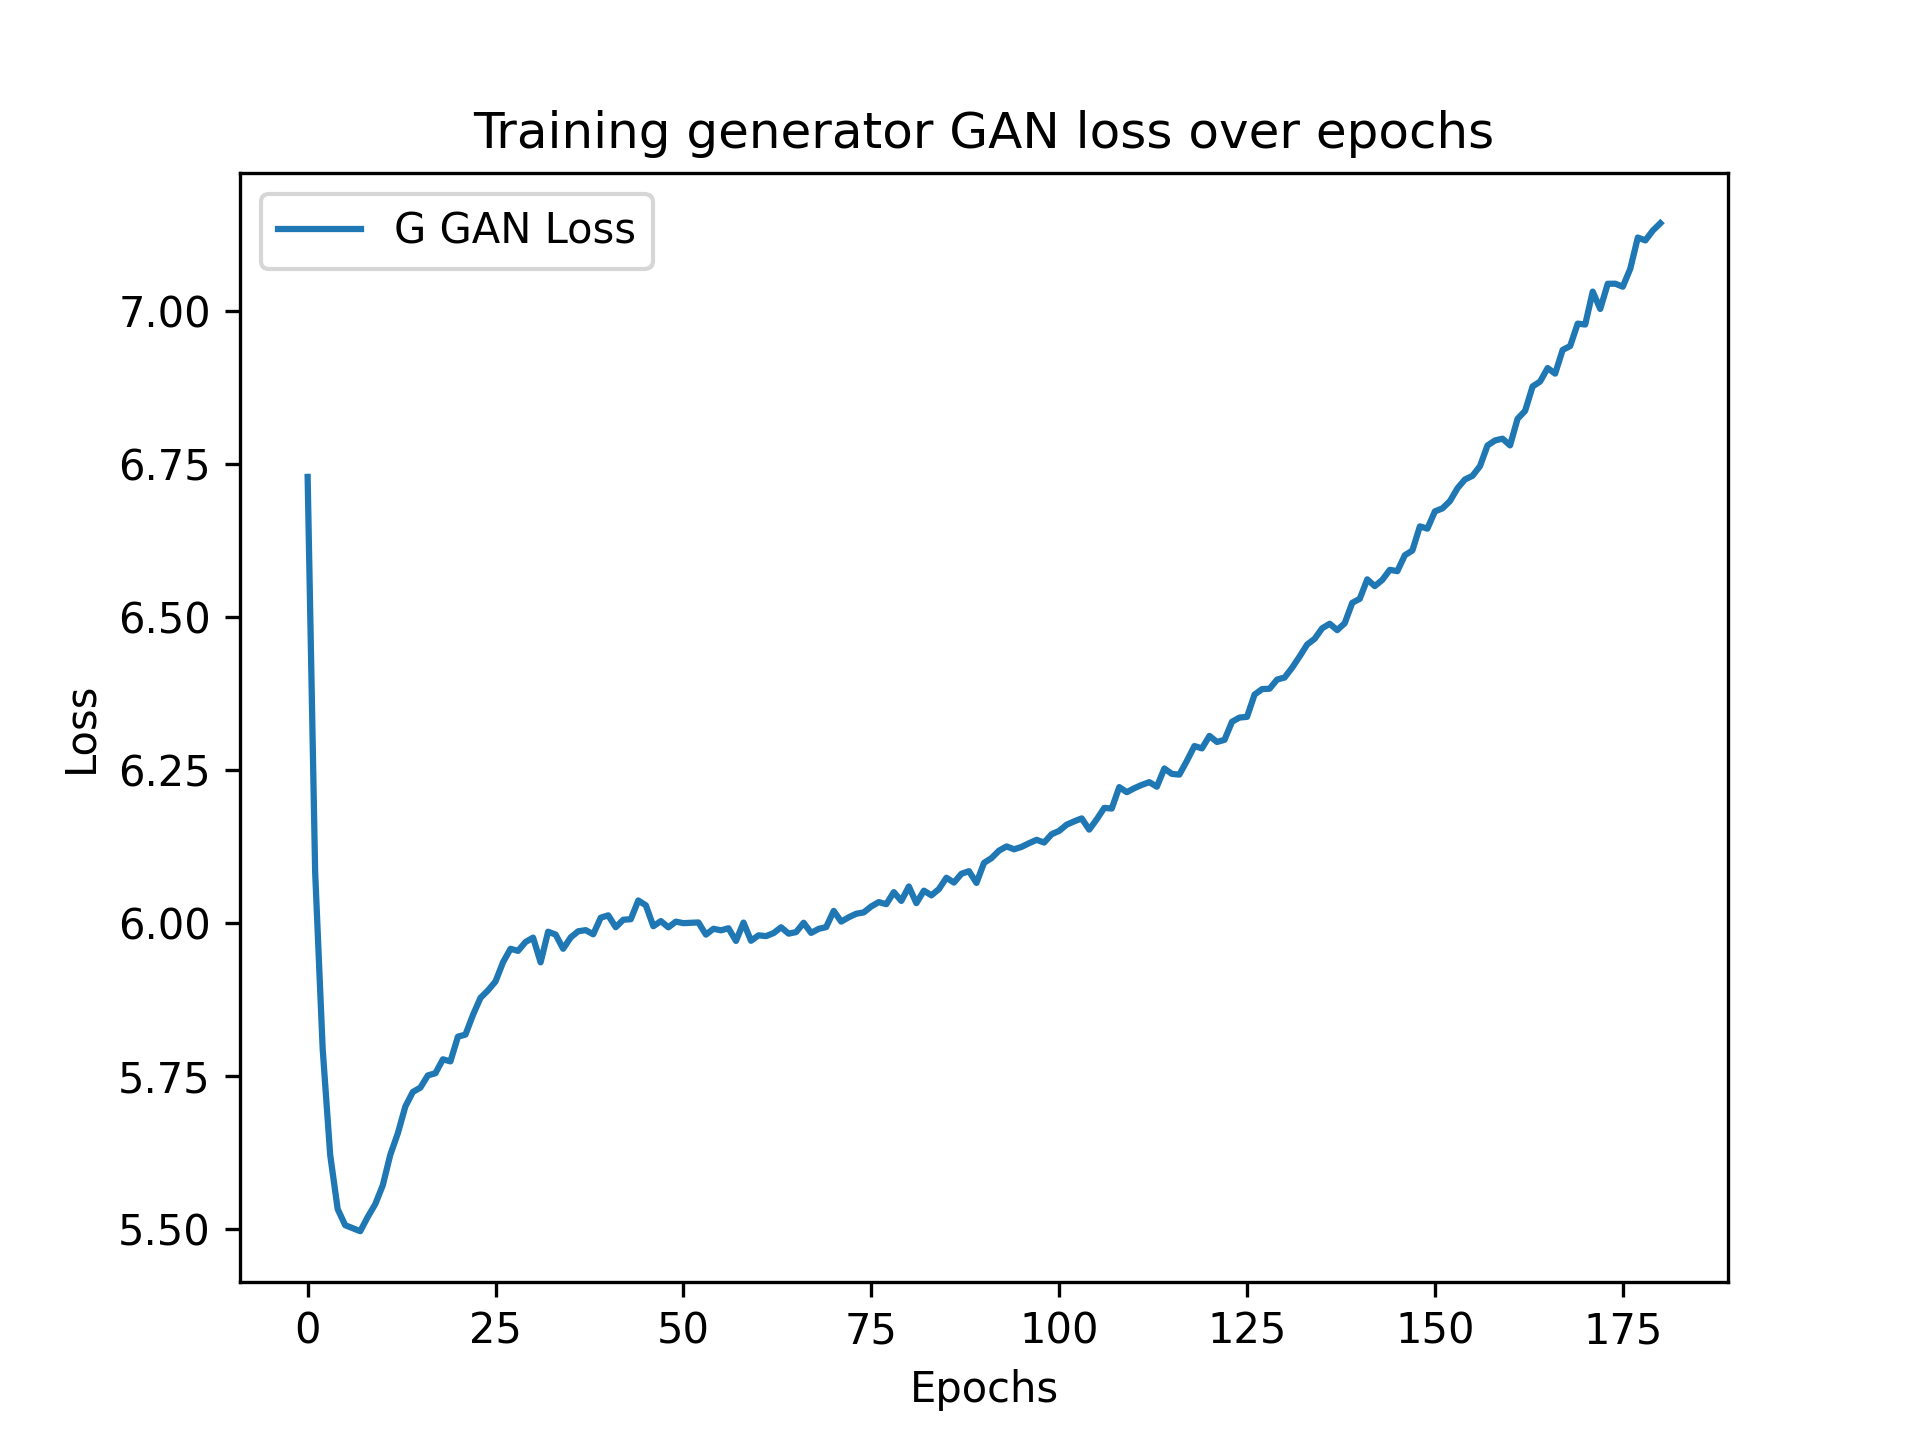
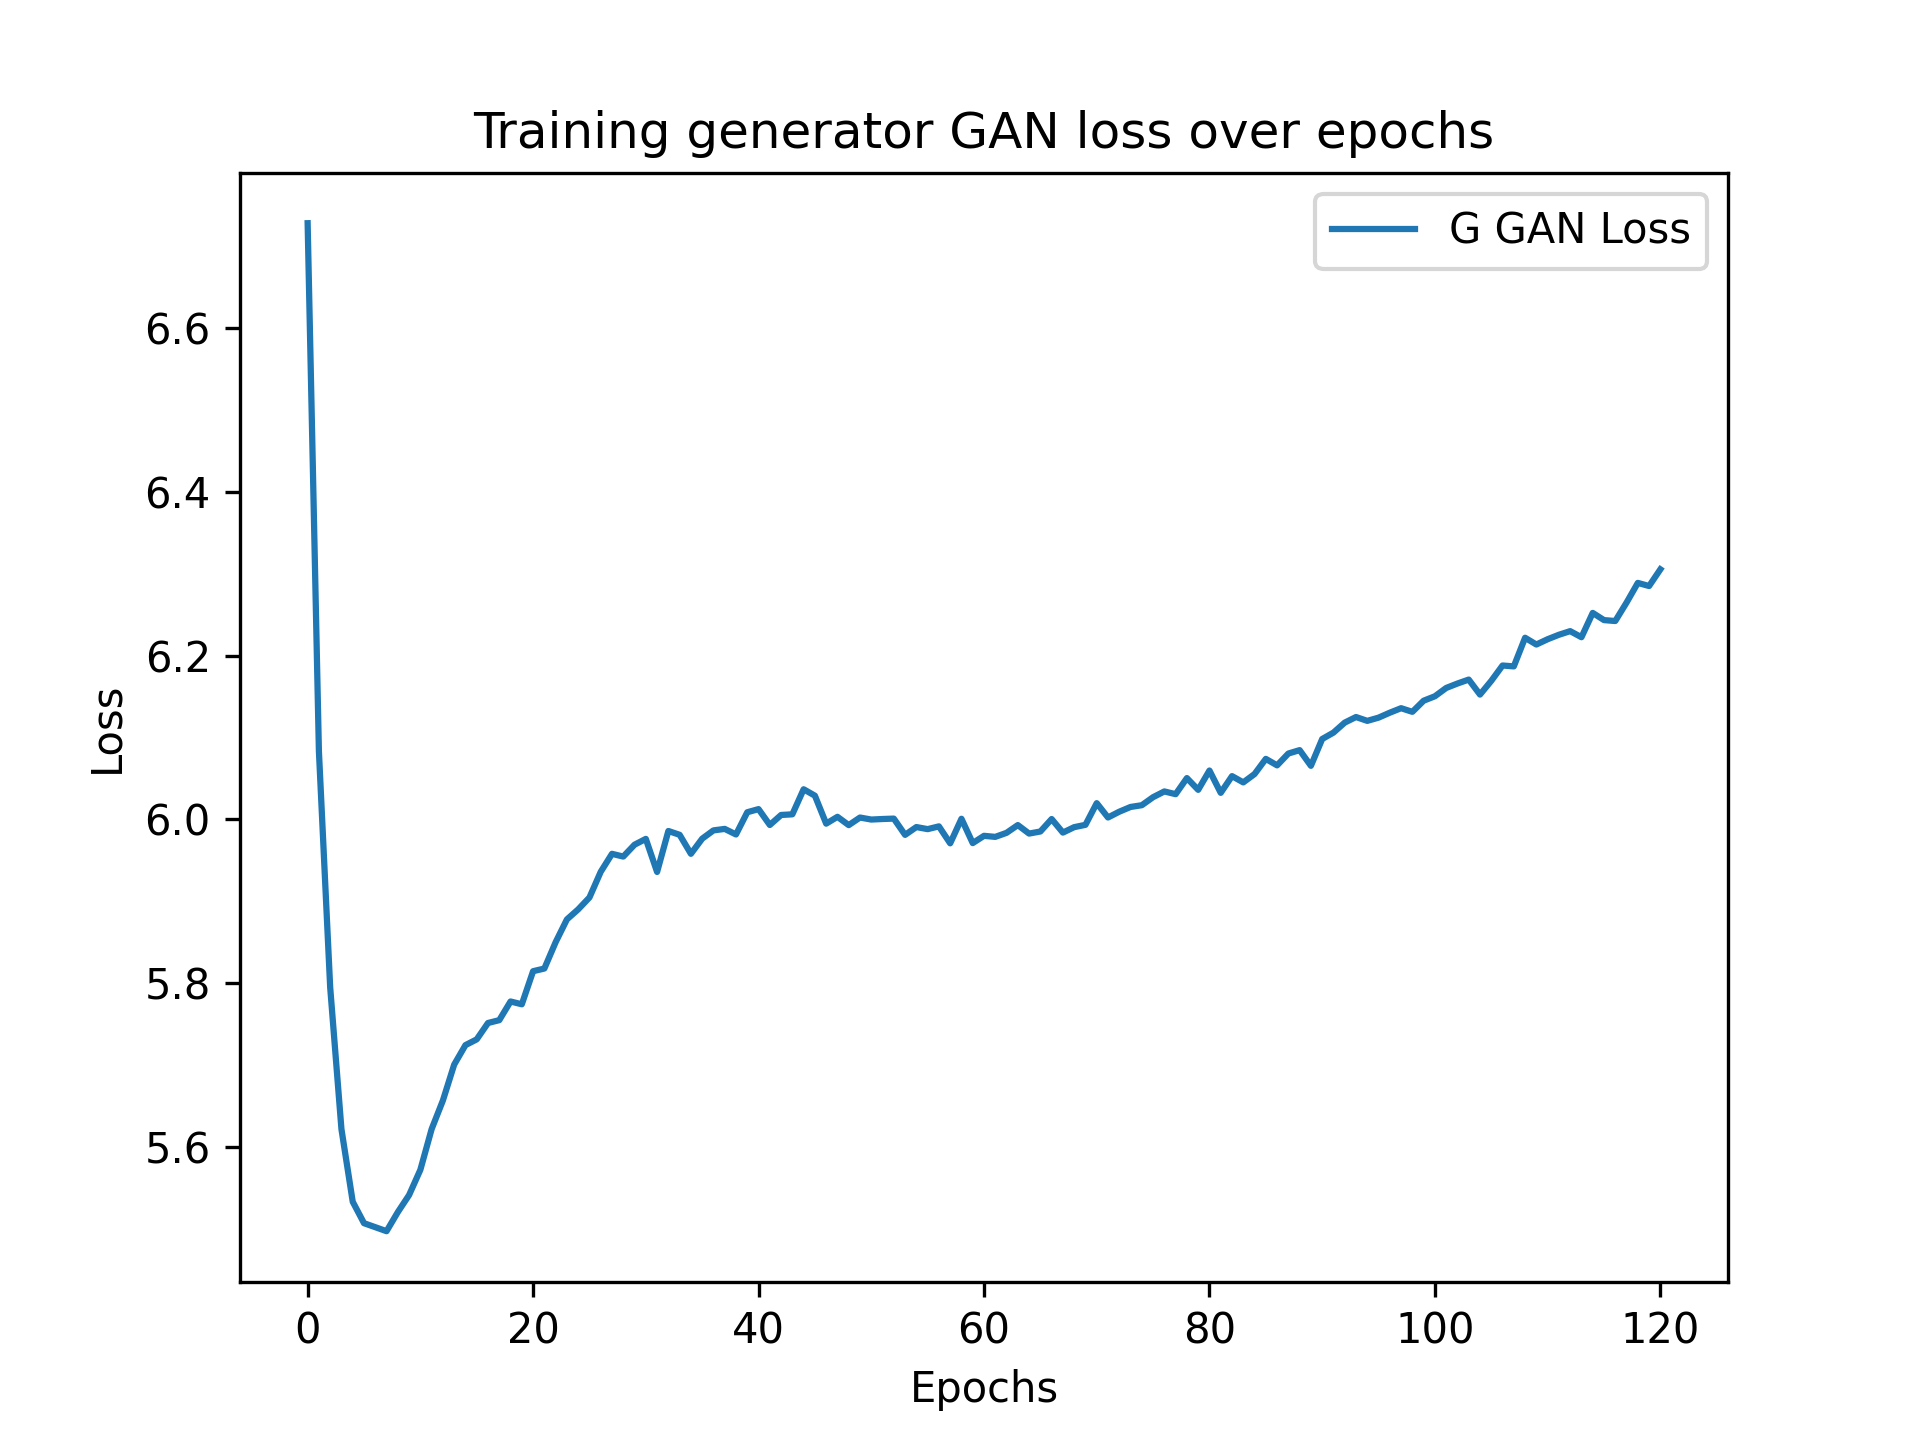
Updating code skeletons

diff --git a/train.py b/train.py
@@ -14,7 +14,7 @@ from model import *
 import pickle
 from skimage.metrics import structural_similarity as ssim
 
-size = 64
+size = 256
 mirflickr = Mirflickr()
 train_dataloader, eval_dataloader = mirflickr.build_dataset(size=size, batch_size=16)
 model = MainModel(size=size, pretrained=True)
@@ -53,7 +53,7 @@ def train(model, train_dataloader, num_epoch):
                    'ssim': [],        # SSIM evaluation metric
                    'psnr': []}        # PSNR evaluation metric
      
-    l1_regularization = 100.
+    l1_loss_penalty = 100.
     for epoch in range(num_epoch):
         total_d_fake_loss = 0.0
         total_d_real_loss = 0.0
@@ -114,7 +114,7 @@ def train(model, train_dataloader, num_epoch):
             g_gan_loss = model.DLoss(fake_preds, true_label) # Minimize this loss for better creation of realistic fake images
             total_g_gan_loss += float(g_gan_loss) * 100
             
-            g_l1_loss = model.GLoss(fake_outputs, ab) * l1_regularization # Multiplied by a L1 regularization term to balance the L1 loss and GAN loss. Prioritize the L1 loss over GAN loss.
+            g_l1_loss = model.GLoss(fake_outputs, ab) * l1_loss_penalty # Multiplied by a L1 regularization term to balance the L1 loss and GAN loss. Prioritize the L1 loss over GAN loss.
             total_g_l1_loss += float(g_l1_loss) 
             
             # Loss for fooling discriminator and loss for the differences between generated color and true color
@@ -135,18 +135,18 @@ def train(model, train_dataloader, num_epoch):
         performance['psnr'].append(average(psnr))
         
         # Perform L1 regularization decrease for G L1 loss
-        if epoch >= 80 and performance['g_gan_loss'][-1] > performance['g_gan_loss'][-2]:
+        if epoch >= 25 and performance['g_gan_loss'][-1] > performance['g_gan_loss'][-2]:
             GAN_loss_count += 1
             
-            if GAN_loss_count == 3:
-                l1_regularization -= 5.
-                if l1_regularization < 1.:
-                    l1_regularization = 1.
+            if GAN_loss_count == 5:
+                l1_loss_penalty -= 5.
+                if l1_loss_penalty < 1.:
+                    l1_loss_penalty = 1.
             
         else:
             GAN_loss_count = 0
         
-        print('=> Current L1 regularization term: %.1f' % (l1_regularization))
+        print('=> Current generator L1 loss penalty factor: %.1f' % (l1_loss_penalty))
         print('=> Epoch %d/%d: L1 loss = %.4f, GAN loss = %.4f, SSIM = %.4f, PSNR = %.4f ' % (epoch+1, 
                                                                                               num_epoch, 
                                                                                               total_g_l1_loss / len(train_dataloader.dataset),

diff --git a/README.md b/README.md
@@ -18,6 +18,8 @@ The project uses Mirflickr-25000 image dataset, which contains 25000 photographs
 
 ![](https://drive.google.com/uc?export=view&id=1SxaGvstDsz1Vx4wxfKFgryahAKpMJiV9)
 
+![](https://drive.google.com/uc?export=view&id=1FXw75FJTUEhWynxzYfCb3Pu4qzDMTTnt)
+
 ## Run Instructions
 
 The following instructions are based on Linux and MacOS system. 
@@ -59,3 +61,8 @@ The following are required dependencies for this project.
 6. You should see that a final weight file is generated alongside with a `.pkl` file storing all evaluation metrics tracking in `saved_weights/`. 
 7. Use `PlotResult.ipynb` to plot the evaluation metrics over epochs and them under `evaluation_plots/`. Loads the performance tracker dictionary pickle file from `saved_weights/`.
 8. Use `ImageColorization.ipynb` to visualize colored samples from your dataset and perform evaluation. Loads the generator UNet model with trained weights from `saved_weights/` and generate `result.png` file for colorization result. 
+
+### Attributes
+
+Part of the codes are modified and revised from https://towardsdatascience.com/colorizing-black-white-images-with-u-net-and-conditional-gan-a-tutorial-81b2df111cd8 by Moein Shariatnia and the pytorch implementation of deep concolutional discriminator available at google cloud tutorials. 
+
